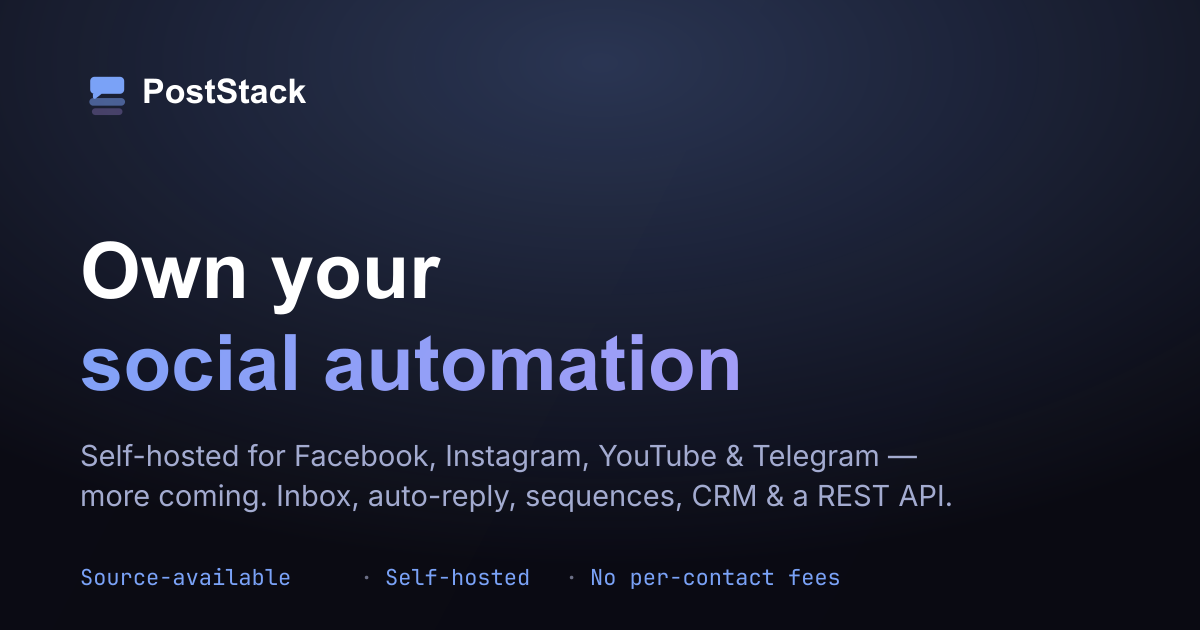
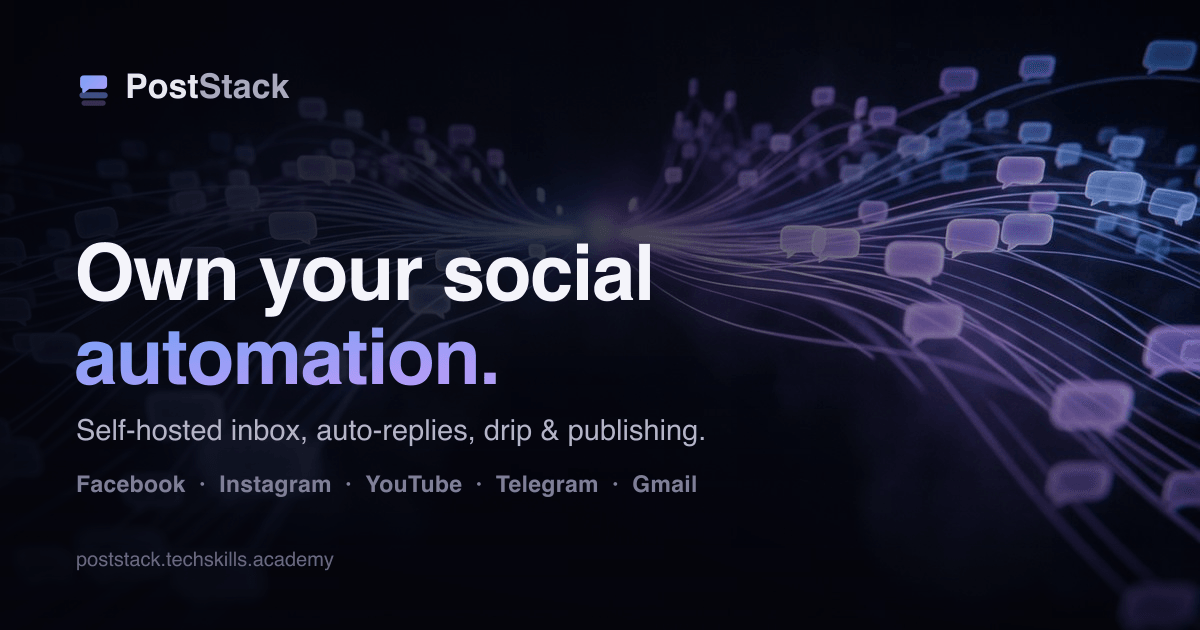
landing: AI graphics + scroll-driven polish (hero backdrop, iso showcase, OG, section auras, workflow step ignite)
Claude-Session: https://claude.ai/code/session_01Dwdqt77AxqyeaN78BG4FNq

diff --git a/landing/src/styles/global.css b/landing/src/styles/global.css
@@ -228,12 +228,15 @@
   position: absolute;
   /* No horizontal bleed: a negative inline inset pushed past the viewport on narrow screens and
      caused a few px of horizontal scroll. Vertical bleed is fine (clipped by section flow). */
-  inset: -12% 0 -18%;
+  inset: -16% 0 -20%;
   z-index: -1;
+  /* Soft, organic glow: compact radials that fall fully transparent well before the layer edges,
+     plus a heavy blur — so it never reads as a lit rectangle (no boxy vertical/edges). */
   background:
-    radial-gradient(60% 55% at 30% 20%, color-mix(in srgb, var(--color-blue) 22%, transparent), transparent 70%),
-    radial-gradient(55% 50% at 80% 90%, color-mix(in srgb, var(--color-purple) 20%, transparent), transparent 70%);
-  filter: blur(8px);
+    radial-gradient(42% 38% at 32% 26%, color-mix(in srgb, var(--color-blue) 30%, transparent), transparent 62%),
+    radial-gradient(40% 36% at 76% 82%, color-mix(in srgb, var(--color-purple) 26%, transparent), transparent 62%);
+  filter: blur(44px);
+  opacity: 0.9;
 }
 .lc-glass {
   border: 1px solid var(--color-border-medium);
@@ -523,5 +526,118 @@
   .reveal-ready [data-reveal] {
     opacity: 1 !important;
     transform: none !important;
+  }
+}
+
+/* ── Pinned-section ambient aura ───────────────────────────────────────────
+   A delicate backdrop for the scroll-pinned sections (the loop story + lead
+   capture), so the long black scroll space feels alive: two slowly drifting
+   blurred gradient orbs over a faint dotted grid, masked so it melts into the
+   page. Parallax (orb drift vs scroll) is added by motion.ts on desktop; the
+   static layer alone already enriches the space and is the reduced-motion view. */
+.bg-aura {
+  position: absolute;
+  inset: 0;
+  z-index: -1;
+  overflow: hidden;
+  pointer-events: none;
+  /* Fade to nothing on ALL FOUR edges (two linear gradients intersected) so the
+     aura melts into the page — no hard top/bottom cut, no clipped orb strip. */
+  -webkit-mask-image:
+    linear-gradient(to bottom, transparent 0%, #000 17%, #000 83%, transparent 100%),
+    linear-gradient(to right, transparent 0%, #000 13%, #000 87%, transparent 100%);
+  -webkit-mask-composite: source-in;
+  mask-image:
+    linear-gradient(to bottom, transparent 0%, #000 17%, #000 83%, transparent 100%),
+    linear-gradient(to right, transparent 0%, #000 13%, #000 87%, transparent 100%);
+  mask-composite: intersect;
+}
+.bg-aura-grid {
+  position: absolute;
+  inset: -10%;
+  background-image: radial-gradient(
+    color-mix(in srgb, var(--color-blue) 24%, transparent) 1px,
+    transparent 1.5px
+  );
+  background-size: 30px 30px;
+  opacity: 0.8;
+}
+.bg-aura-orbs {
+  position: absolute;
+  inset: 0;
+  will-change: transform;
+}
+.bg-orb {
+  position: absolute;
+  border-radius: 9999px;
+  filter: blur(64px);
+  opacity: 0.85;
+}
+.bg-orb-a {
+  width: 44rem;
+  height: 44rem;
+  top: -9rem;
+  left: -11rem;
+  background: radial-gradient(circle, var(--color-blue), transparent 60%);
+}
+.bg-orb-b {
+  width: 40rem;
+  height: 40rem;
+  bottom: -12rem;
+  right: -8rem;
+  background: radial-gradient(circle, var(--color-purple), transparent 60%);
+}
+/* a third, central accent so the middle of the field isn't flat */
+.bg-orb-c {
+  width: 30rem;
+  height: 30rem;
+  top: 30%;
+  left: 52%;
+  filter: blur(80px);
+  opacity: 0.5;
+  background: radial-gradient(circle, var(--color-blue), transparent 64%);
+}
+
+@media (prefers-reduced-motion: no-preference) {
+  /* Gentle breathing drift; only runs while the section is on screen
+     (initInviewPlay toggles .is-playing) to spare the CPU. */
+  .bg-aura.is-playing .bg-orb-a {
+    animation: auraFloatA 19s var(--ease-spring, ease-in-out) infinite alternate;
+  }
+  .bg-aura.is-playing .bg-orb-b {
+    animation: auraFloatB 23s var(--ease-spring, ease-in-out) infinite alternate;
+  }
+  .bg-aura.is-playing .bg-orb-c {
+    animation: auraFloatC 27s var(--ease-spring, ease-in-out) infinite alternate;
+  }
+}
+@keyframes auraFloatC {
+  to {
+    transform: translate3d(-4.4rem, 3rem, 0) scale(1.12);
+  }
+}
+
+/* Mirror modifier: same aura language, orbs flipped left↔right so an adjacent
+   pinned section shares the backdrop's DNA without being a pixel-for-pixel copy. */
+.bg-aura--mirror .bg-orb-a {
+  left: auto;
+  right: -11rem;
+}
+.bg-aura--mirror .bg-orb-b {
+  right: auto;
+  left: -8rem;
+}
+.bg-aura--mirror .bg-orb-c {
+  left: auto;
+  right: 52%;
+}
+@keyframes auraFloatA {
+  to {
+    transform: translate3d(4rem, 2.4rem, 0) scale(1.08);
+  }
+}
+@keyframes auraFloatB {
+  to {
+    transform: translate3d(-3.4rem, -2.6rem, 0) scale(1.06);
   }
 }

diff --git a/landing/src/scripts/motion.ts b/landing/src/scripts/motion.ts
@@ -95,6 +95,8 @@ async function initGsap(): Promise<void> {
 
   initScrollStory(gsap, ScrollTrigger);
   initLeadCapture(gsap, ScrollTrigger);
+  initAuraParallax(gsap, ScrollTrigger);
+  initWorkflowSteps(gsap, ScrollTrigger);
 
   const hero = document.querySelector<HTMLElement>("[data-hero-mock]");
   const counters = document.querySelectorAll<HTMLElement>("[data-count]");
@@ -337,6 +339,66 @@ function initLeadCapture(gsap: Gsap, ScrollTrigger: ScrollTriggerStatic): void {
     .to(spark2, { autoAlpha: 0, duration: 0.1 }, 0.96)
     .to(dot, { boxShadow: "0 0 14px 3px #9ece6a", scale: 1.5, duration: 0.2, yoyo: true, repeat: 1 }, 0.82)
     .to(added, { autoAlpha: 1, x: 0, duration: 0.4 }, 0.88);
+}
+
+/**
+ * "How it works" steps light up in sequence as the section scrolls through view:
+ * the connector line fills left→right and each number badge ignites as the fill
+ * reaches it. Reduced-motion / no-GSAP leaves the static (un-lit) badges, which
+ * are a complete design on their own.
+ */
+function initWorkflowSteps(gsap: Gsap, ScrollTrigger: ScrollTriggerStatic): void {
+  void ScrollTrigger; // already registered by caller
+  const list = document.querySelector<HTMLElement>("[data-flow-steps]");
+  if (!list) return;
+  const nums = Array.from(list.querySelectorAll<HTMLElement>("[data-flow-num]"));
+  const fill = list.querySelector<HTMLElement>("[data-flow-fill]");
+  if (nums.length === 0) return;
+
+  const setLit = (count: number) =>
+    nums.forEach((n, i) => (i < count ? n.setAttribute("data-active", "") : n.removeAttribute("data-active")));
+
+  gsap.to(
+    {},
+    {
+      ease: "none",
+      scrollTrigger: {
+        trigger: list,
+        start: "top 78%",
+        end: "bottom 62%",
+        scrub: 0.5,
+        onUpdate: (self) => {
+          // Light each badge as the fill front passes it (first lights almost immediately).
+          const lit = Math.min(nums.length, Math.ceil(self.progress * nums.length + 0.0001));
+          setLit(self.progress <= 0 ? 0 : lit);
+          if (fill) gsap.set(fill, { scaleX: self.progress });
+        },
+      },
+    },
+  );
+}
+
+/**
+ * Delicate parallax for the ambient aura in pinned sections: the orb layer drifts
+ * against the page scroll so the long black scroll space gains depth. Subtle on
+ * purpose (a few percent of travel); the CSS float keeps it alive while pinned.
+ */
+function initAuraParallax(gsap: Gsap, ScrollTrigger: ScrollTriggerStatic): void {
+  void ScrollTrigger; // already registered by caller
+  const layers = document.querySelectorAll<HTMLElement>("[data-parallax-orbs]");
+  layers.forEach((orbs) => {
+    const section = orbs.closest("section");
+    if (!section) return;
+    gsap.fromTo(
+      orbs,
+      { yPercent: -18 },
+      {
+        yPercent: 18,
+        ease: "none",
+        scrollTrigger: { trigger: section, start: "top bottom", end: "bottom top", scrub: 0.8 },
+      },
+    );
+  });
 }
 
 /**